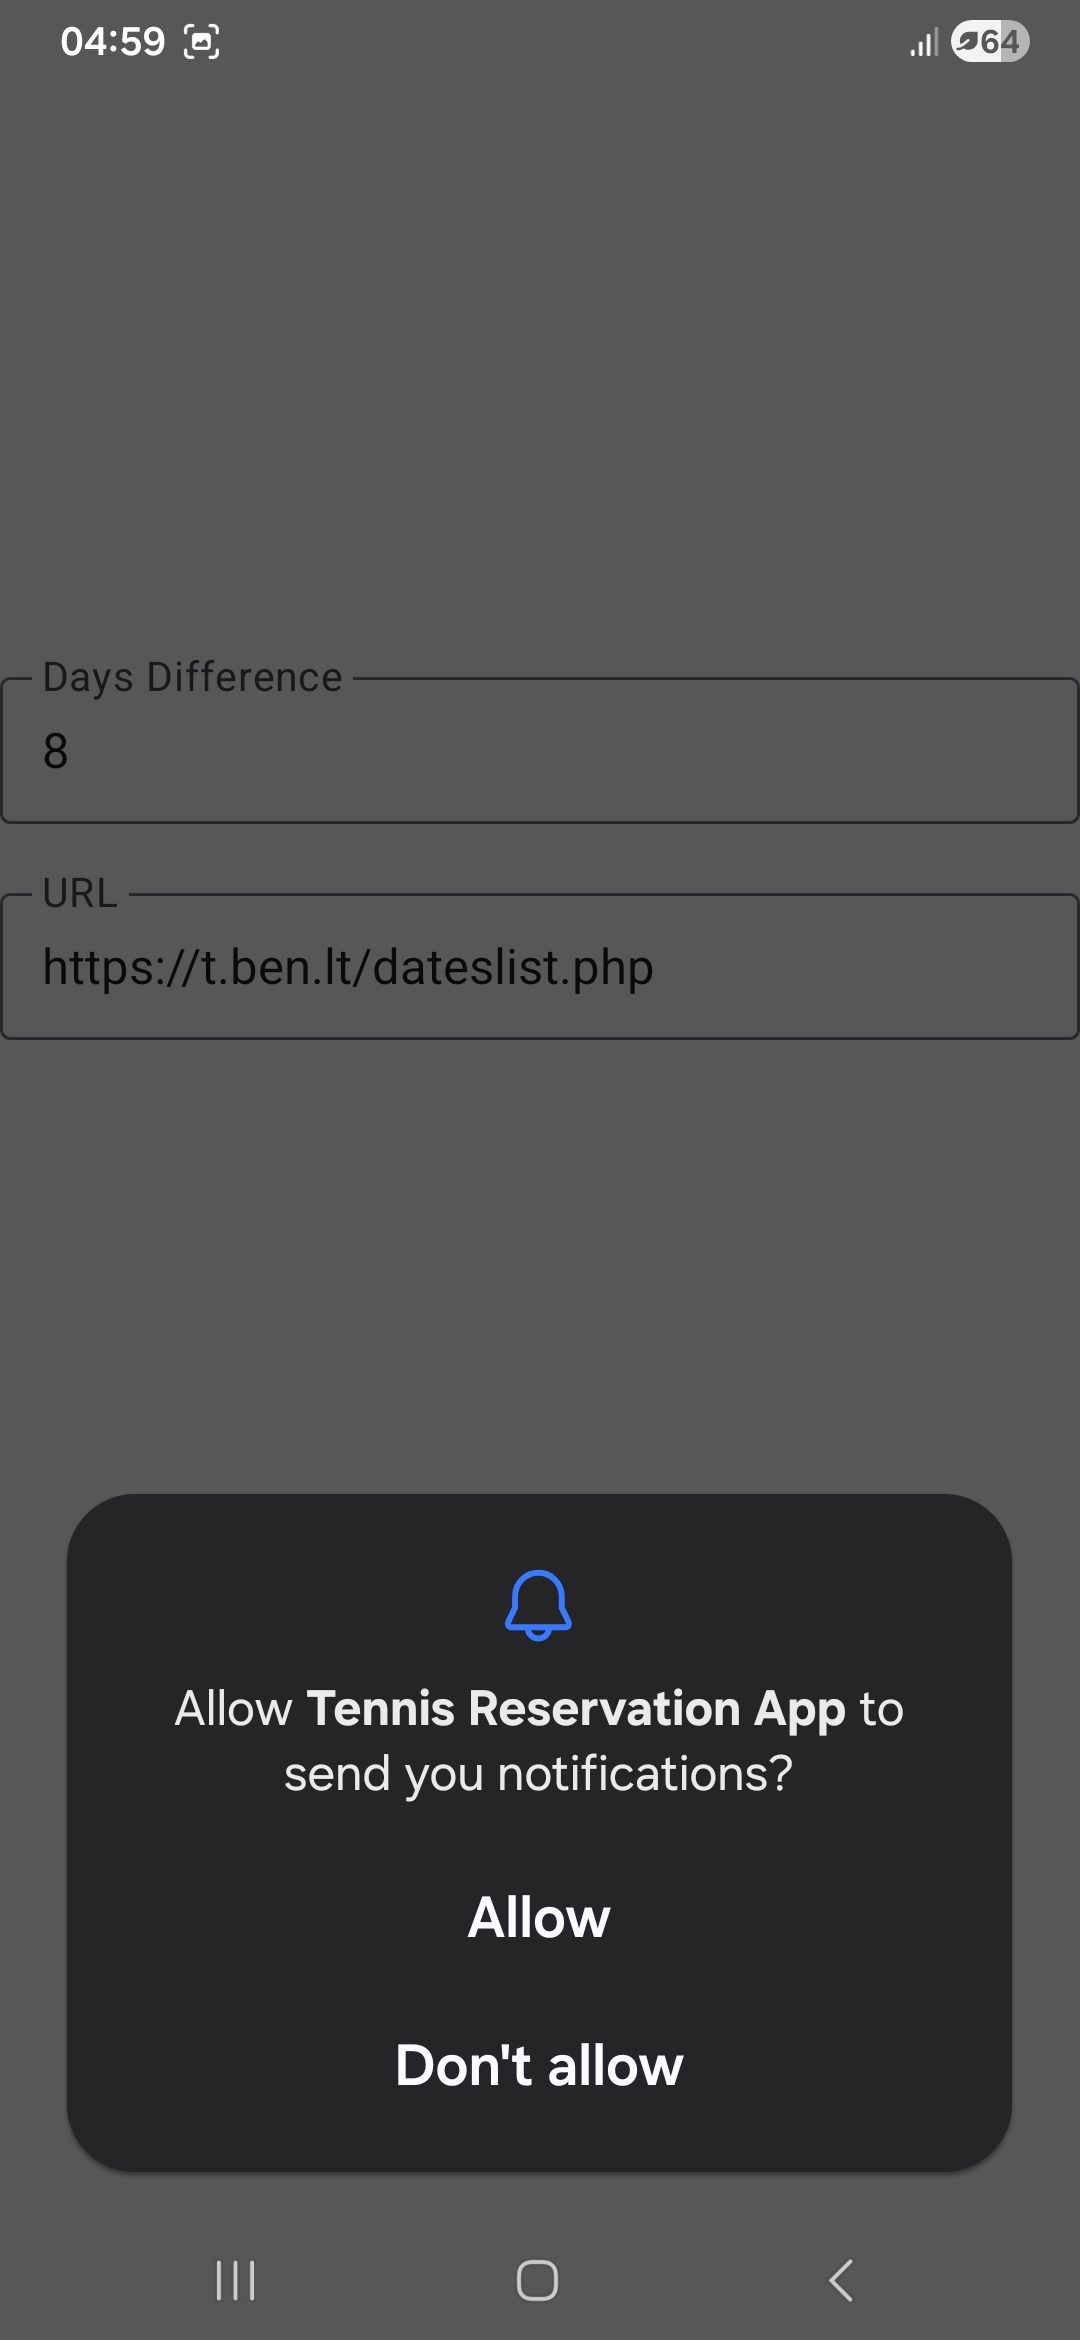
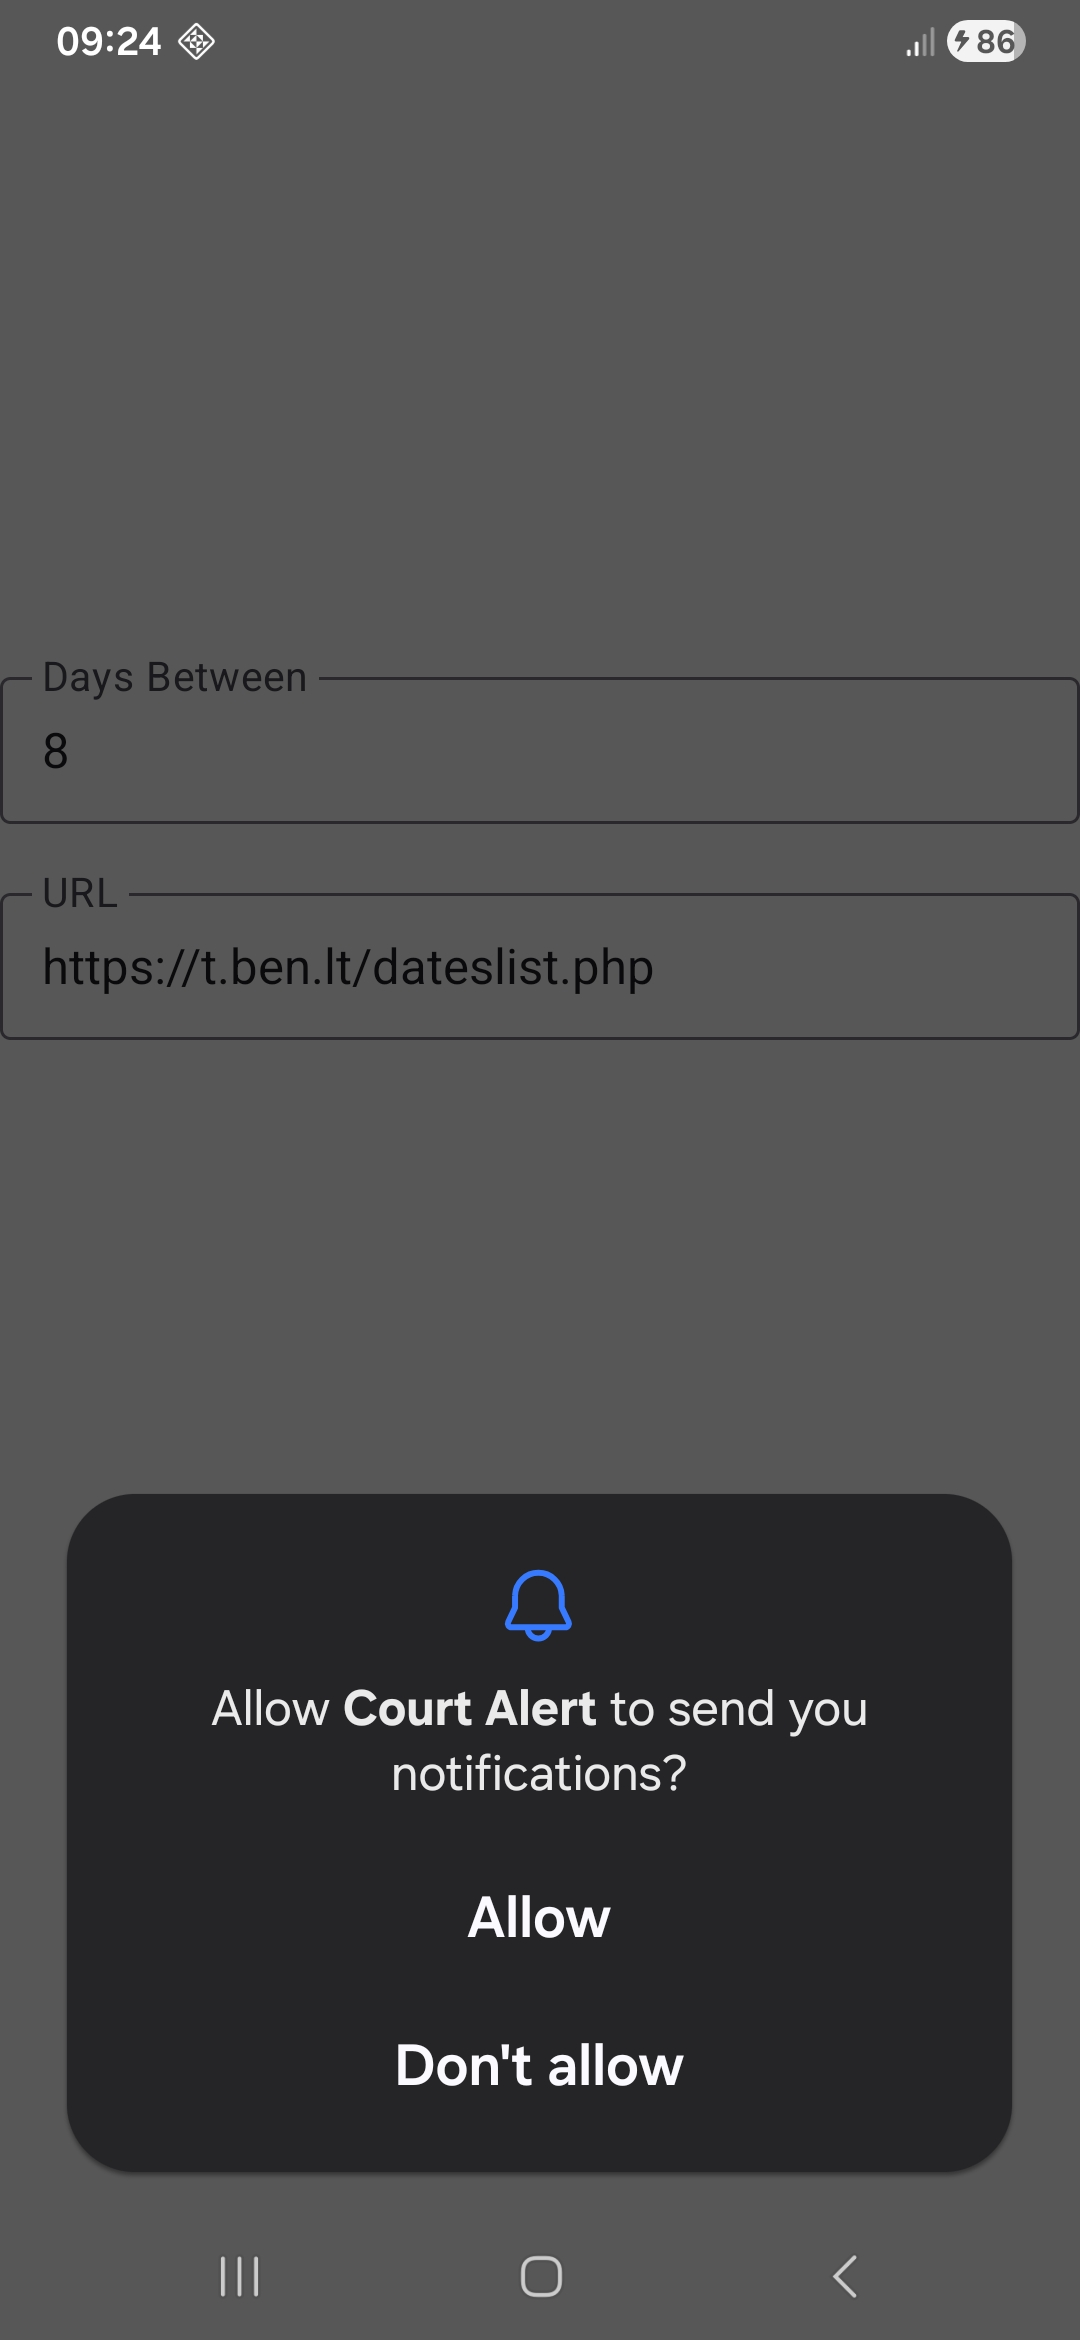
Added a cache‑busting query parameter. Updated screenshot of notification permission

diff --git a/docs/_layouts/post.html b/docs/_layouts/post.html
@@ -56,7 +56,7 @@ layout: default
             </div>
 
             {% if block.image %}
-              <img src="{{ block.image }}" alt="{{ section.heading }}">
+              <img src="{{ block.image }}?v={{ site.time | date: '%s' }}" alt="{{ section.heading }}">
             {% endif %}
           </div>
         {% endfor %}
